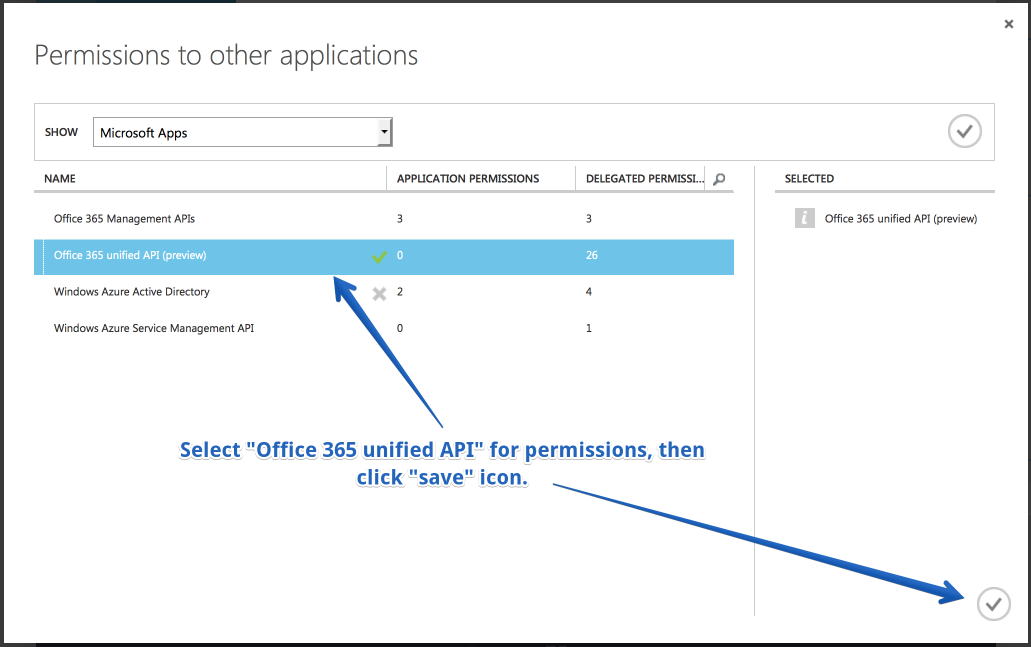
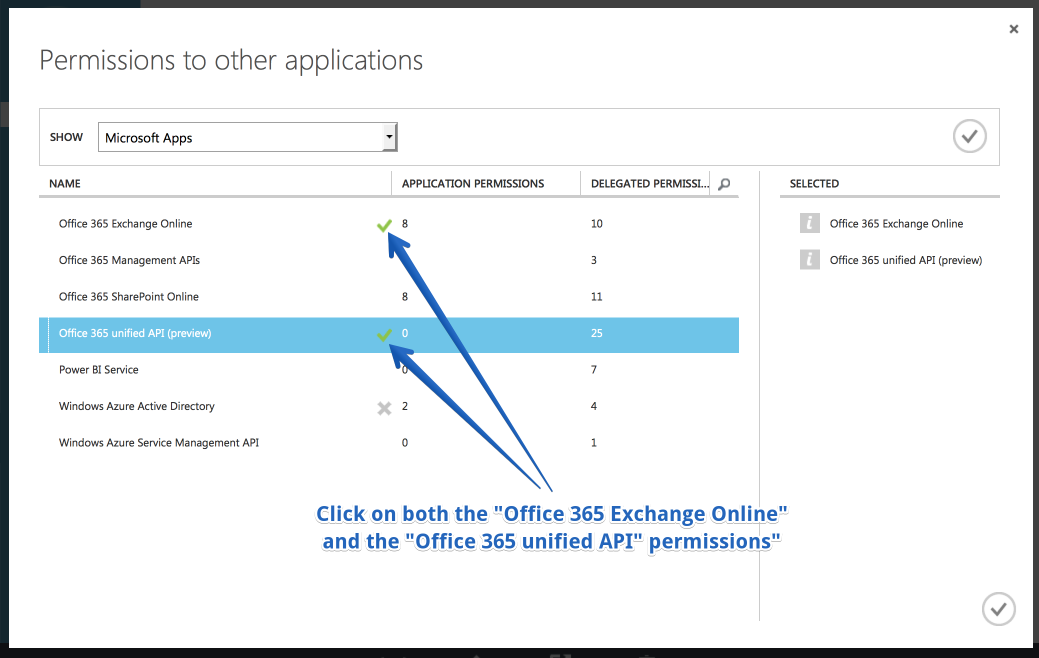
Adding changes to the docs.

Changed region(s): [[0.0, 0.0, 1.0, 1.0], [0.9001, 0.1546, 0.9622, 0.2473], [0.807, 0.8655, 0.8691, 0.8964]]

diff --git a/_chapters/integrations/office365.md b/_chapters/integrations/office365.md
@@ -45,7 +45,7 @@ mechanism. To get your project working with Microsoft Office 365, please walk th
 
       ![](/assets/img/office365/application-add-app-perms.png)
 
-    - Click on ***Office 365 unified API*** permissions and then click the ***Save*** icon.
+    - Click on ***Office 365 Exchange Online*** and ***Office 365 unified API*** permissions and then click the ***Save*** icon.
 
       ![](/assets/img/office365/application-permissions.png)
 
